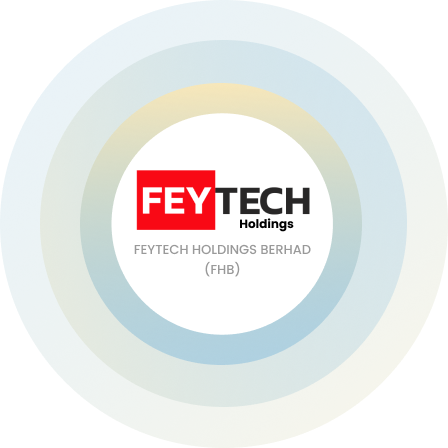
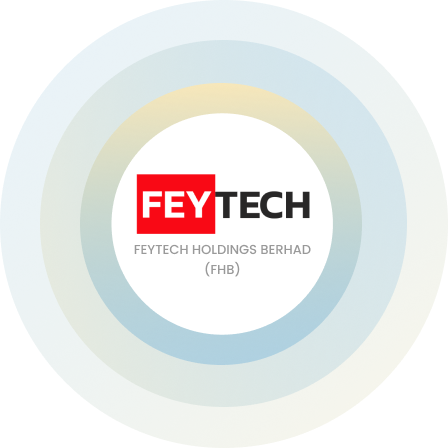
hide the company structure

Changed region(s): [[0.3125, 0.375, 0.6875, 0.5312]]

diff --git a/resources/views/acewebfront/pages/home.blade.php b/resources/views/acewebfront/pages/home.blade.php
@@ -155,7 +155,9 @@
           </div>
         </div>
       </section>
-      <section class="company-ace">
+      <section class="company-ace" style="background-color: #ffffff;">
+      </section>
+      <!-- <section class="company-ace">
         <div class="content-ace">
           <div class="wrap-content">
             <div class="ace-isi about">
@@ -219,7 +221,7 @@
               <!-- <div id="structur-ipad" class="row img-strc">
                 <img style="width:100%" src="{{ static_asset('aceweb') }}/assets/img/structure.png" alt="">
               </div> -->
-
+<!--
               <div  class="row img-structure-mobile">
                 <div class="col-sm-12">
                   <center>
@@ -279,7 +281,7 @@
             </div>
           </div>
         </div>
-      </section>
+      </section> -->
       <section id="nonmansory" class="about-provider">
         <div class="content-ace">
           <div class="wrap-content">
